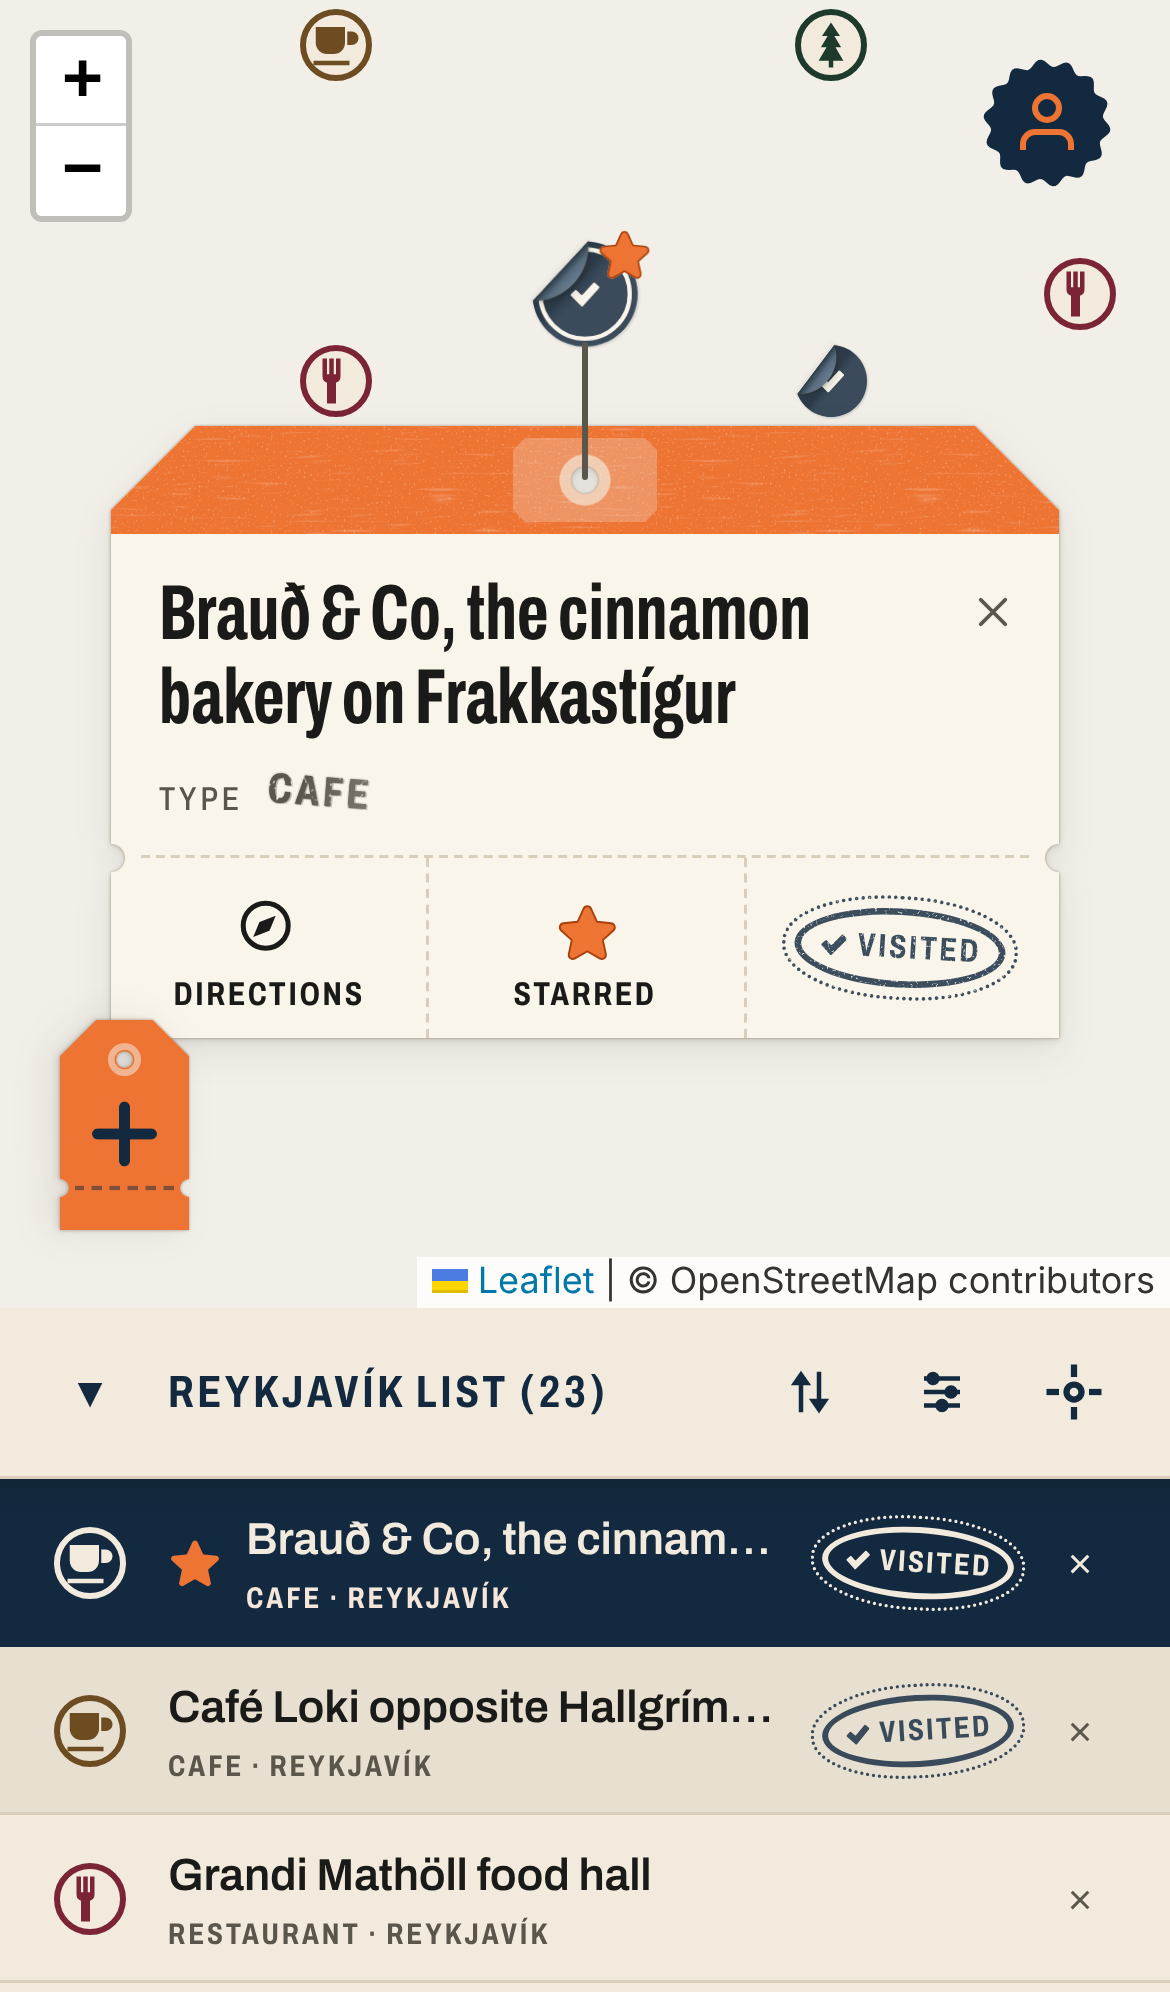
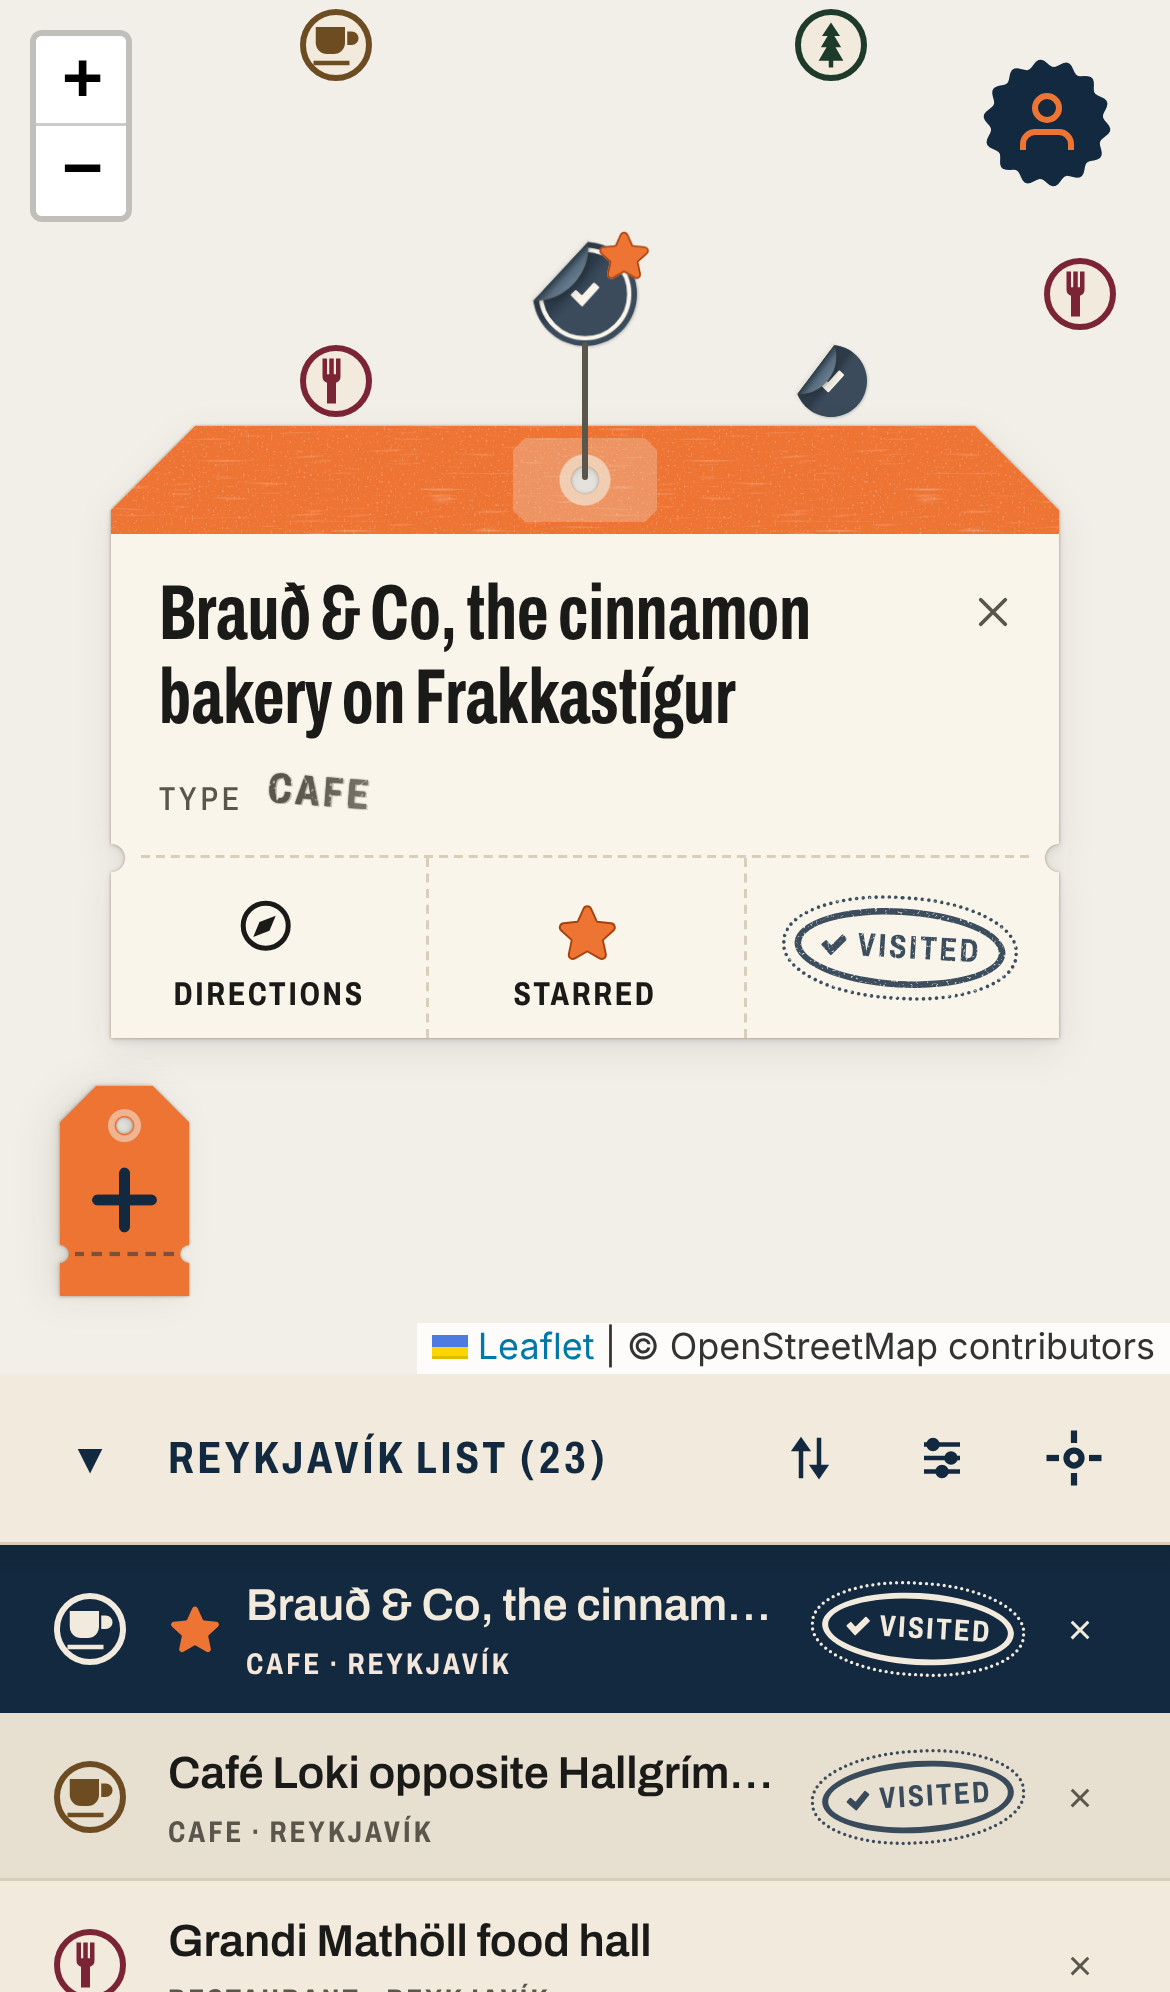
+ placement: V7 short upright, V2 re-shot (visual)

Changed region(s): [[0.0, 0.6225, 1.0, 1.0], [0.0308, 0.498, 0.1846, 0.6536]]

diff --git a/design/add-button-placement/concepts/blank-tag-form/compose.js b/design/add-button-placement/concepts/blank-tag-form/compose.js
@@ -191,8 +191,8 @@ const pages = {
   // ================= ROUND 11b: turned 90 degrees =================
   [R11 + 'V1-upright-options-real-size-3x.png']: `${cap('The tag turned 90°', 'Three ways to stand it up, each in both colourways (the orange tag; cream with an orange end), at real size and a half.')}
 <div class="lab" style="padding:16px 30px 6px">Hole at the top, the claim-check end at the bottom (the lead) <span style="font-weight:400;color:#3d4a55">— A hanging luggage tag, the way the place’s tag hangs: eyelet up, stub down. 43 × 70.</span></div><div class="row" style="padding:0 30px;gap:30px">${crop1(f('r11v-orange-p4-up-1x'), 0, 430, 120, 527, 4.5)}${crop1(f('r11v-twoend-p4-up-1x'), 0, 430, 120, 527, 4.5)}</div><div class="lab" style="padding:16px 30px 6px">Hole at the bottom, the end at the top <span style="font-weight:400;color:#3d4a55">— The tag stood on its eyelet; the tear-off end points up. Reads more like a price label.</span></div><div class="row" style="padding:0 30px;gap:30px">${crop1(f('r11v-orange-p4-down-1x'), 0, 430, 120, 527, 4.5)}${crop1(f('r11v-twoend-p4-down-1x'), 0, 430, 120, 527, 4.5)}</div><div class="lab" style="padding:16px 30px 6px">Slimmer, hole at the top <span style="font-weight:400;color:#3d4a55">— 38 × 64: the same tag, a size smaller.</span></div><div class="row" style="padding:0 30px;gap:30px">${crop1(f('r11v-orange-p5-up-1x'), 0, 430, 120, 527, 4.5)}${crop1(f('r11v-twoend-p5-up-1x'), 0, 430, 120, 527, 4.5)}</div><div class="gap"></div>`,
-  [R11 + 'V2-choice-3x.png']: `${cap('The choice', 'The badge, the tag lying flat, the tag standing up. All bottom-left; all open the same blank tag.')}
-     <div class="row" style="padding:0 12px;gap:12px">${col('Float · the badge', crop(f('f10-rest'), 0, 0, 390, 640, 370 / 390, 390, 'border:1px solid #cfc4ae'), 372)}${col('C · flat', crop(f('c11-rest'), 0, 0, 390, 640, 370 / 390, 390, 'border:1px solid #cfc4ae'), 372)}${col('C · upright', crop(f('r11v-orange-p4-up'), 0, 0, 390, 640, 370 / 390, 390, 'border:1px solid #cfc4ae'), 372)}</div><div class="gap"></div>`,
+  [R11 + 'V2-choice-3x.png']: `${cap('The choice', 'The badge, the tag lying flat (70 × 43), the tag standing up (36 × 58). All bottom-left; all open the same blank tag.')}
+     <div class="row" style="padding:0 12px;gap:12px">${col('Float · the badge', crop(f('f10-rest'), 0, 0, 390, 640, 370 / 390, 390, 'border:1px solid #cfc4ae'), 372)}${col('C · flat', crop(f('c11-rest'), 0, 0, 390, 640, 370 / 390, 390, 'border:1px solid #cfc4ae'), 372)}${col('C · upright', crop(f('r11v-orange-p6-up'), 0, 0, 390, 640, 370 / 390, 390, 'border:1px solid #cfc4ae'), 372)}</div><div class="gap"></div>`,
   [R11 + 'V3-upright-rest-vs-today-3x.png']: `${cap('C upright beside today', 'The tag hangs the way a place’s tag does: hole at the top, the claim-check end at the bottom. 43 × 70, bottom-left; the account badge alone at the top.')}
      ${pair(f('r9-today'), 'Today', f('r11v-orange-p4-up'), 'C upright', 640)}<div class="gap"></div>`,
   [R11 + 'V4-upright-real-size-3x.png']: `${cap('C upright at real size', 'As your phone shows it, with the app’s own pins and the account badge.')}
@@ -200,6 +200,11 @@ const pages = {
      ${note('Rough weight (systems re-measures): about 2× the account badge, the same as lying flat; it stands 27px taller and takes 27px less width.')}`,
   [R11 + 'V5-upright-colourways-3x.png']: `${cap('Upright, both colourways', 'Left: the orange tag. Right: cream with an orange end (rough weight about 0.6× the account: quieter than it).')}
      ${pair(f('r11v-orange-p4-up'), 'Orange tag', f('r11v-twoend-p4-up'), 'Cream, orange end', 640)}<div class="gap"></div>`,
+  [R11 + 'V7-short-upright-3x.png']: `${cap('A shorter upright: 36 × 58', 'Left: 36 × 58. Right: 43 × 70. Both at real size (1x as your phone shows it), then at twice that so the hole, the dotted line and the end can be checked. Below: a place’s tag open in Safari, with 3 list rows still showing.')}
+     <div class="row" style="padding:0 30px;gap:30px;align-items:flex-end">${col('36 × 58, real size', crop1(f('r11v-orange-p6-up-1x'), 0, 450, 90, 527, 3), 270)}${col('43 × 70, real size', crop1(f('r11v-orange-p4-up-1x'), 0, 440, 90, 527, 3), 270)}</div>
+     <div class="row" style="padding:12px 30px 0;gap:30px;align-items:flex-end">${col('36 × 58, ×2', crop1(f('r11v-orange-p6-up-1x'), 0, 450, 90, 527, 6), 540)}${col('43 × 70, ×2', crop1(f('r11v-orange-p4-up-1x'), 0, 440, 90, 527, 6), 540)}</div>
+     ${lab('<span style="padding-left:30px">A place’s tag open (390 × 664): 3 rows</span>')}${full(f('r11v-orange-p6-up-tag664'))}
+     ${note('Rough weight (systems re-measures): about 1.5× the account badge.')}`,
   [R11 + 'V6-upright-sizes-3x.png']: `${cap('Upright: small phone, list down, a tag open', 'Left: 320 wide. Middle: list down (Home Screen). Right: a place’s tag open in Safari: it stays, the list sits a little lower.')}
      <div class="row" style="padding:0 12px;gap:12px;align-items:flex-end">${col('320 × 568', crop(f('r11v-orange-p4-up-320'), 0, 0, 320, 568, 372 / 320, 320, 'border:1px solid #cfc4ae'), 374)}${col('List down', crop(f('r11v-orange-p4-up-collapsed'), 0, 270, 390, 844, 372 / 390, 390, 'border:1px solid #cfc4ae'), 374)}${col('A tag open', crop(f('r11v-orange-p4-up-tag664'), 0, 0, 390, 664, 372 / 390, 390, 'border:1px solid #cfc4ae'), 374)}</div><div class="gap"></div>`,
 };

diff --git a/design/add-button-placement/concepts/blank-tag-form/stills.js b/design/add-button-placement/concepts/blank-tag-form/stills.js
@@ -19,7 +19,8 @@ const CPICK = (process.env.CPICK || 'side:fillplus:rules:0:144:40:4:heavy').spli
 const CREST = process.env.CC ? JSON.parse(process.env.CC) : [64.1460, -21.9380];
 // C keys: 'C' (the pick) or 'C:<form>:<pin>:<plus>:<ps>:<w>:<pd>'
 const TINC = fs.readFileSync(path.join(CON, 'C-tag-r10/t.inc.html'), 'utf8');
-const htmlFor = k => { if (k.startsWith('T')) { const [, tv, tw, tilt, tp, trot] = k.split(':'); return inj(real.replace('const TAG_SHEET_GAP = 48;', 'const TAG_SHEET_GAP = 86;'), [BT, TINC, PREFIX], `data-k="T" data-tv="${tv || 'paper'}" data-tw="${tw || 104}" data-tilt="${tilt || 0}"${tp ? ` data-tp="${tp}"` : ""}${trot ? ` data-trot="${trot}"` : ""}`); }
+const htmlFor = k => { if (k.startsWith('T')) { const [, tv, tw, tilt, tp, trot] = k.split(':'); const GAP = trot && process.env.TGAP ? process.env.TGAP : trot ? (tp === 'p6' ? 90 : 108) : 86;   // foot 20 + the object + 12
+    return inj(real.replace('const TAG_SHEET_GAP = 48;', `const TAG_SHEET_GAP = ${GAP};`), [BT, TINC, PREFIX], `data-k="T" data-tv="${tv || 'paper'}" data-tw="${tw || 104}" data-tilt="${tilt || 0}"${tp ? ` data-tp="${tp}"` : ""}${trot ? ` data-trot="${trot}"` : ""}`); }
   if (!k.startsWith('C')) return HTML[k]; const [form, pin, plus, ps, w, pd, rw, cg] = k === 'C' ? CPICK : k.split(':').slice(1);
   return inj(real, [BT, CINC, PREFIX], `data-k="C" data-cform="${form}" data-cpin="${pin}" data-cplus="${plus}" data-cps="${ps || 0}" data-cw="${w || 100}" data-cpd="${pd || 32}" data-crw="${rw || 3}" data-cg="${cg || ''}"`); };
 // ---------- helpers ----------
@@ -226,6 +227,10 @@ F['r11v-orange-p4-up-320'] = { k: 'T:orange:104:0:p4:up', vp: V320, zoom: true, 
 F['r11v-orange-p4-up-collapsed'] = { k: 'T:orange:104:0:p4:up', inset: true, zoom: true, centre: [64.1500, -21.9450], run: async p => { await p.click('#collapseBtn'); await p.waitForTimeout(900); } };
 F['r11v-orange-p4-up-tag664'] = { k: 'T:orange:104:0:p4:up', vp: V664, run: p => openPlace(p, 'Brauð & Co, the cinnamon bakery on Frakkastígur') };
 
+// round 11b: the short upright (36 x 58)
+both('r11v-orange-p6-up', { k: 'T:orange:104:0:p6:up', zoom: true, centre: CREST });
+F['r11v-orange-p6-up-tag664'] = { k: 'T:orange:104:0:p6:up', vp: V664, run: p => openPlace(p, 'Brauð & Co, the cinnamon bakery on Frakkastígur') };
+
 (async () => {
   const b = await L.launch(); const meas = {}; fs.mkdirSync(path.join(C, 'raw'), { recursive: true });
   for (const [name, s] of Object.entries(F).filter(([n]) => !process.env.ONLY || process.env.ONLY.split(',').some(p => n.startsWith(p)))) {
@@ -246,7 +251,9 @@ F['r11v-orange-p4-up-tag664'] = { k: 'T:orange:104:0:p4:up', vp: V664, run: p =>
         eyePin = [...document.querySelectorAll('.leaflet-marker-icon')].filter(m => { const r = m.getBoundingClientRect(); return cx > r.left - 7 && cx < r.right + 7 && cy > r.top - 7 && cy < r.bottom + 7; }).length; }
       const LP = document.getElementById('lp') || document.getElementById('cp') || document.getElementById('tb') || document.getElementById('fb'); const lpPins = LP ? [...document.querySelectorAll('.leaflet-marker-icon')].filter(m => { const r = m.getBoundingClientRect(), q = LP.getBoundingClientRect(); return r.right > q.left - 4 && r.left < q.right + 4 && r.bottom > q.top - 4 && r.top < q.bottom + 4; }).length : null;
       const taps = window.__BT && __BT.taps && document.getElementById('btDock') ? __BT.taps() : null;
-      return { taps, acctPins, eyePin, lpPins, lp: bx('#lp'), nb: bx('#nb'), acct: bx('#accountBtn'), credit: bx('.leaflet-control-attribution'), tag: bx('.tag-popup .tag-body'), add: bx('.bt-add'), pin: bx('#btPin'), sheetTop: Math.round(document.getElementById('locations').getBoundingClientRect().top) }; });
+      const lst = document.getElementById('locationsList'), lr = lst.getBoundingClientRect();
+      const rows = [...lst.querySelectorAll('.location-card[data-id]')].filter(c => { const r = c.getBoundingClientRect(); return r.top >= lr.top - 1 && r.bottom <= Math.min(lr.bottom, innerHeight) + 1; }).length;
+      return { rows, taps, acctPins, eyePin, lpPins, lp: bx('#lp'), nb: bx('#nb'), acct: bx('#accountBtn'), credit: bx('.leaflet-control-attribution'), tag: bx('.tag-popup .tag-body'), add: bx('.bt-add'), pin: bx('#btPin'), sheetTop: Math.round(document.getElementById('locations').getBoundingClientRect().top) }; });
     m.errs = errs; m.clash = await chromeCheck(page);
     meas[name] = m; console.log(name, JSON.stringify(m));
     await page.screenshot({ path: path.join(C, 'raw', `${name.replace(/-1x$/, '')}-${s.dsf === 1 ? 1 : 3}x.png`) });

diff --git a/design/add-button-placement/concepts/C-tag-r10/t.inc.html b/design/add-button-placement/concepts/C-tag-r10/t.inc.html
@@ -68,7 +68,8 @@
     p2: [64, 44, 13, 14, 8.5, 3.4],    // squat: nearer a real luggage tag's end-on read, 1.45 : 1
     p3: [80, 36, 11, 15, 8, 3.2],      // slim claim check: 2.2 : 1
     p4: [70, 43, 12, 14, 9, 3.6],      // golden: 1.62 : 1
-    p5: [64, 38, 11, 13, 8, 3.4],      // round 11b: a slimmer tag for the upright reading
+    p5: [64, 38, 11, 13, 8, 3.4],
+    p6: [58, 36, 10, 12, 7.5, 3.2],    // round 11b: the short upright, 36 x 58 (director: keep the third list row)      // round 11b: a slimmer tag for the upright reading
   };
   function drawR11(v, tp, pr) {
     const [w, h, CH, STUB, A, SW] = P11[tp], sx = w - STUB, hx = CH * .85 + 3, hy = h / 2, HR = Math.max(2.6, h * .065);

diff --git a/design/add-button-placement/notes/visual.md b/design/add-button-placement/notes/visual.md
@@ -1,5 +1,15 @@
 # Visual designer notes -- + placement
 
+## UPDATE 2026-10-15, round 11b short upright
+- **p6 preset** = 58×36 (upright 36×58), + 15 / 3.2, hole r 2.6.
+- **The T page gap** is now foot 20 + the object + 12: p6 upright 90, p4
+  upright 108, flat 86 (`TGAP` env overrides).
+  - At 664 with a tag open, 90 keeps 3 rows; 96 drops to 2.
+  - measure.json has `rows` now.
+- **Stills:** V7 (36×58 vs 43×70 at real size and ×2, plus a tag open at
+  664 with 3 rows). V2 (the choice) is re-shot with 36×58 as the upright.
+- **Rough weight:** 36×58 is about 1.5× the account.
+
 ## UPDATE 2026-10-15, round 11b (owner: "Let's try it turned 90 degrees too")
 - **`data-trot=up|down`** in `drawR11()`; preset p5 (64×38) for a slimmer
   upright.

diff --git a/design/add-button-placement/concepts/C-tag-r11/looks-and-feels.md b/design/add-button-placement/concepts/C-tag-r11/looks-and-feels.md
@@ -1,5 +1,12 @@
 # C · the tag is the button, round 11: how it looks and feels
 
+## Round 11b, short upright (director: keep the third list row)
+
+- **36 × 58** (`p6`, upright): the + is 15 across with a 3.2 stroke, the hole r 2.6 with its ring, the end 12. The hole, the dotted line and the end all read at 1x (V7).
+- **Tag open:** `TAG_SHEET_GAP` = 20 + 58 + 12 = **90**, which keeps **3 list rows at 664** (43 × 70 needs 108, which shows 2).
+- **Rough weight:** about 1.5× the account (systems re-measures).
+- **V2 (the choice)** now shows the upright at 36 × 58.
+
 ## Round 11b: turned 90° (owner: "Let's try it turned 90 degrees too")
 
 `drawR11()` dial `data-trot = up | down`: the same horizontal tag rotated. Frames `r11v-*`.
